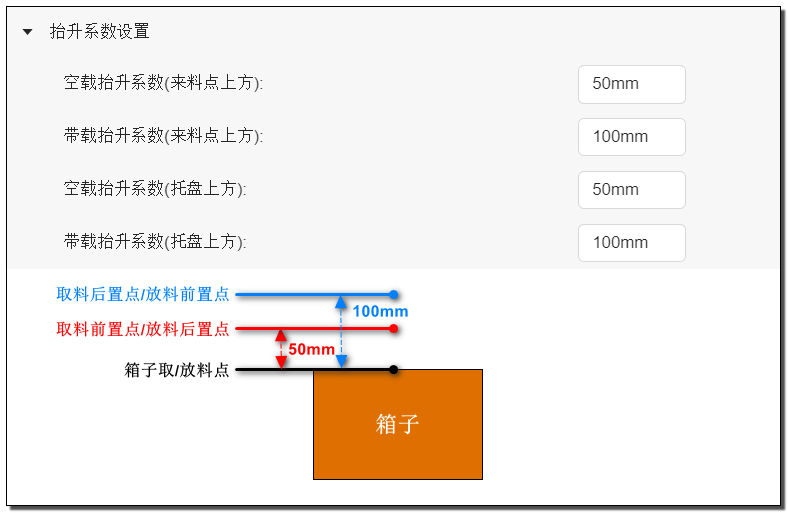
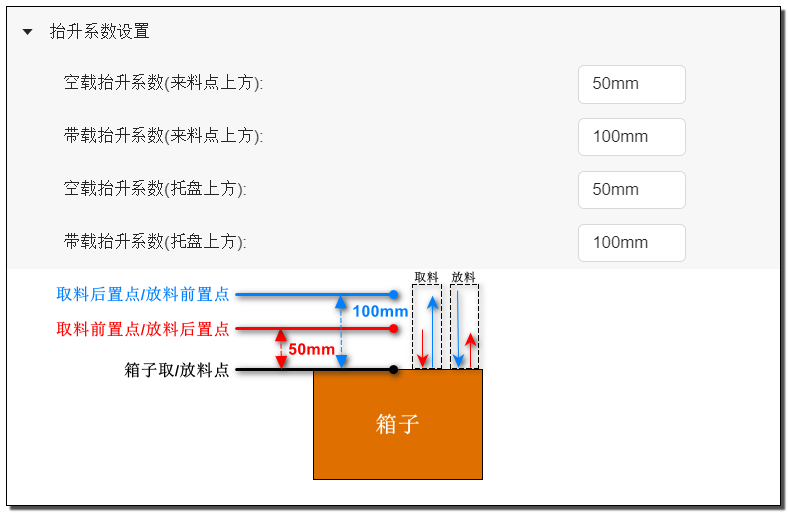
fix：更新中文文档及图片

Changed region(s): [[0.5178, 0.5302, 0.6091, 0.7485]]

diff --git a/README.md b/README.md
@@ -3,6 +3,17 @@
 **该文档为码垛工艺包的使用说明手册，其主要步骤及图示基于 JAKA v1.7.1 版本控制器软件,与 1.7.0 可能存在一些差异，当有额外的步骤或注意事项时会在步骤下方指出。**
 
 <!-- [English document](./en/README.md) -->
+- [码垛工艺包](#码垛工艺包)
+  - [插件信息](#插件信息)
+  - [安装指南](#安装指南)
+  - [使用指南](#使用指南)
+    - [坐标系标定](#坐标系标定)
+    - [创建垛型](#创建垛型)
+    - [编辑程序](#编辑程序)
+  - [进阶指南](#进阶指南)
+  - [常见问题](#常见问题)
+  - [版本升级](#版本升级)
+  - [问题及 BUG 反馈](#问题及-bug-反馈)
 
 ## 插件信息
 
@@ -81,7 +92,7 @@
 
 选择预设的标准托盘尺寸，或者输入自定义的托盘长宽高。   
 - 托盘用户坐标系 Z 轴反转  
-  是否需要勾选，取决于托盘坐标系的 Z 轴是否指向地面。如果不明白，可以参考前面的托盘坐标系标定章节。
+  是否需要勾选，取决于托盘坐标系的 Z 轴是否指向地面。如果不明白，可以参考前面的托盘坐标系标定小节。
 
 <div align="center"><img width="800"  src="./img/定义托盘.png"/></div>
 
@@ -99,19 +110,21 @@
 该页面中，粉红色区域代表托盘，点击新建箱子会在托盘旁生成一个新的箱子。
 
 - 位置调整   
-你可以在坐标栏中输入具体数值来调整箱子的位置，也可以直接拖拽箱子到托盘上想要的位置，双击箱子调整旋转角度。
+您可以在坐标栏中输入具体数值来调整箱子的位置，也可以直接拖拽箱子到托盘上想要的位置，双击箱子调整旋转角度。
 - 删除     
-如果你想删除多余的箱子，首先需要选中它。
+如果您想删除多余的箱子，首先需要选中它。
 - 取消   
-点击取消将不会保存你刚才做过的更改，直接返回垛型页面。    
+点击取消将不会保存您刚才做过的更改，直接返回垛型页面。    
 - 保存并退出   
 点击保存并退出，会保存刚才的更改。
+
+    提示：码垛时会按照箱子上的 Id 由小到大的顺序进行。
 
 当编辑完所有类型的层后，可以通过复制层来快速完成整个垛型。
 
 <div align="center"><img width="800"  src="./img/复制层型.png"/></div>
 
-当你想调整垛型中层的顺序时，也可以简单的通过拖拽完成。
+当您想调整垛型中层的顺序时，也可以简单的通过拖拽完成。
 
 <div align="center"><img width="800"  src="./img/调整层顺序.png"/></div>
 
@@ -125,9 +138,9 @@
 以下所有的输入信号（DI）均为高电平生效，根据实际的信号使用情况进行勾选和配置。
 
 - 箱子到位：在取料点会持续等待该信号，高电平时继续运行。
-- 箱子缺失：当箱子到位信号为高电平时，输出高电平信号。
+- 箱子缺失：当箱子到位信号为低电平时，输出高电平信号。
 - 托盘到位：在到达托盘入口点后，持续等待该信号，高电平时继续运行。
-- 托盘缺失：当托盘到位信号为高电平时，输出高电平信号。
+- 托盘缺失：当托盘到位信号为低电平时，输出高电平信号。
 - 抓取检测：取料完成后持续等待该信号，高电平时继续运行。
 - 夹爪信号：取料时输出高电平信号，放料时输出低电平信号。
 - 托盘重置：用于将托盘完成 DO 信号置为低电平。
@@ -135,9 +148,11 @@
 
 **关键点设置**
 
-    提示：在进行点位设置前，请先确保机器人处于上使能状态。如果需要切换到主页进行上使能操作，请务必先点击保存并退出，以免导前面的设置全部丢失。
+    提示：   
+    在进行点位设置前，请先确保机器人处于上使能状态。如果需要切换到主页进行上使能操作，请务必先点击保存并退出，以免导前面的设置全部丢失。
 
-    注意：在JAKA控制器软件 v1.7.0.x 版本上使用时，未上使能移动机器人会自动跳转至主页，导致前面的数据未保存，因此一定义要注意保存。
+    注意：    
+    在JAKA控制器软件 v1.7.0.x 版本上使用时，未上使能移动机器人会自动跳转至主页，导致前面的数据未保存，因此一定义要注意保存。
 
 -开始位置至箱子取料点
 
@@ -161,7 +176,7 @@
 
 - 托盘入口点
 
-  托盘入口点是一个公共过渡点，是进入托盘前的最后一个点，也是退出托盘后的第一个点。这个点的高度会根据垛的高度实时调整，但最低点永远都将是你设置的位置。一般来说这个点应该设置在托盘外部，但也可以根据实际情况进行测试调整。
+  托盘入口点是一个公共过渡点，是进入托盘前的最后一个点，也是退出托盘后的第一个点。这个点的高度会根据垛的高度实时调整，但最低点永远都将是您设置的位置。一般来说这个点应该设置在托盘外部，但也可以根据实际情况进行测试调整。
 
 <div align="center"><img width="800"  src="./img/托盘入口点.png"/></div>
 
@@ -178,7 +193,7 @@
 
 **放料前置点偏置**
 
-设置放料前置点偏置参数，保证箱子可以安全的放置到位。默认值为0。
+设置放料前置点偏置参数，保证箱子可以安全的放置到位。默认值为0，即在放料位置上方垂直下降。
 
 <div align="center"><img width="800"  src="./img/放料偏置示意.png"/></div>
 
@@ -193,19 +208,26 @@
 **运动设置**
 
 - 圆弧过渡：码垛过程中所有运动段间的圆弧过渡参数。
-- 空载速度：机器人没有箱子时的速度。
+   
+      提示：由于信号等待、socket 通讯会打断圆弧过渡的原因，部分运动段无法进行连续运动和圆弧转接。
+
+- 空载速度：机器人末端没有箱子时的速度。
 - 带载速度：机器人末端有箱子时的速度。  
 - 取放料前减速距离：在取放料点上方某个高度开始降速运动。
 
-      提示：当这个距离大于取料前置点的高度时，取料前置点抬高。当大于放料前置点时，减速距离等于放料前置点的高度。
+      提示：   
+      * 当这个距离大于取料前置点的高度时，取料前置点抬高。
+      * 当大于放料前置点时，减速距离等于放料前置点的高度。
 
 - 取放料前减速至：开始降速运动时的目标速度。
 
-      提示：由于信号等待、socket 通讯会打断圆弧过渡的原因，部分运动段无法进行连续运动和圆弧转接。
+    
+
+
 
 ### 编辑程序
 
-到此为止，我们已经设置完成了坐标系、创建了垛型和配置了码垛参数。接下来可以开始编辑程序了。以下示例程序将展示核心的四个部分，用户可以根据实际场景进行扩展和完善。
+到此为止，我们已经完成了坐标系设置、垛型创建和码垛参数配置。接下来可以开始编辑程序的部分。以下示例程序将展示核心的四个部分，用户可以根据实际场景进行扩展和完善。
 
 **初始化负载及坐标系**
 
@@ -265,17 +287,23 @@
 - 取放料时需要自定义一些动作等
 - ···
 
+      提示：
+        扩展指令只是将单行的指令拆成了几个部分，留出一些可以让用户添加自定义程序的部分。核心的程序框架仿照上一小节即可。
+
 <div align="center"><img width="800"  src="./img/码垛扩展指令.png"/></div>
 
-    注：在 JAKA 控制器软件版本 v1.7.0.x 上，扩展指令的显示略有区别，对应区域的描述文字位于区域上方，其他并无区别。
+    注：    
+    在 JAKA 控制器软件版本 v1.7.0.x 上，扩展指令的显示略有区别，对应区域的描述文字位于区域上方，其他并无区别。
 
 - 自动取放的说明
 
-启用： ··· -> 取料前置点 -> 取料点 -> 用户插入的自定义程序 -> 取料后置点 -> ···
+启用时的运行顺序： ··· -> 取料前置点 -> 取料点 -> 用户插入的自定义程序 -> 取料后置点 -> ···
 
-禁用： ··· -> 取料前置点 -> 用户插入的自定义程序  -> ···
+禁用时的运行顺序： ··· -> 取料前置点 -> 用户插入的自定义程序  -> ···
 
 扩展拆垛指令同理，这里不做另外的说明。
+
+    提示：如果不能理解，实际使用一下试试！
 
 ## 常见问题
 
@@ -312,6 +340,15 @@
 - 垛型中不存在层和箱子。   
 解决方案：检查垛型是否存在层，层中是否存在箱子。
 
+**5. 垛型中的一些参数丢失** 
+
+- 使用了新的指令块
+解决方案：为了更好的兼容和灵活性，码垛工艺包中，不是所有参数都与垛型绑定保存，有一些是保存在指令块上的，当使用了新的指令块时这些参数就需要重新设置。
+
+    保存在指令块上的参数：
+      * 托盘用户坐标系 Z 轴反转
+      * 所有信号设置
+      * 所有点位设置
 
 ## 版本升级
 
